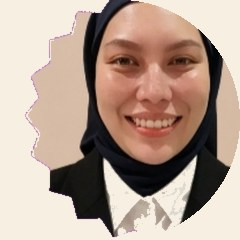
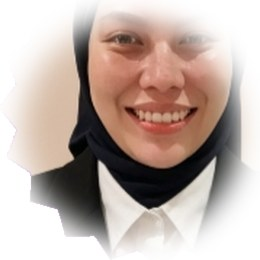
Founder photo back to a rectangular portrait; feather the team headshots
- assets/team/founder.jpg regenerated as the rectangular studio portrait
  (a stray re-run had overwritten it with the circular crop)
- the five circular team photos (co-founder + 4 teachers) recut tighter and
  composited onto white through a soft feathered mask, so the collage's
  jagged starburst edge dissolves into the card instead of showing a hard
  scalloped line
- styles.css: .team-photo loses the hard white border for a soft cream-soft
  ring + drop shadow that suits the feathered edge

Claude-Session: https://claude.ai/code/session_015dAkiJyBsNj6XMZ9FVvaqH

diff --git a/styles.css b/styles.css
@@ -367,13 +367,12 @@ section { padding: 64px 0; }
 }
 
 .team-photo {
-  width: 88px; height: 88px;
+  width: 92px; height: 92px;
   border-radius: 50%;
   object-fit: cover;
-  background: var(--cream-soft);
-  border: 4px solid #fff;
-  box-shadow: 0 0 0 1px rgba(43, 36, 32, 0.08), 0 5px 16px rgba(43, 36, 32, 0.16);
-  margin-bottom: 15px;
+  background: #fff;
+  box-shadow: 0 0 0 3px var(--cream-soft), 0 6px 16px rgba(43, 36, 32, 0.15);
+  margin-bottom: 16px;
 }
 
 .tint-terracotta { background: var(--terracotta); color: #fff; }
